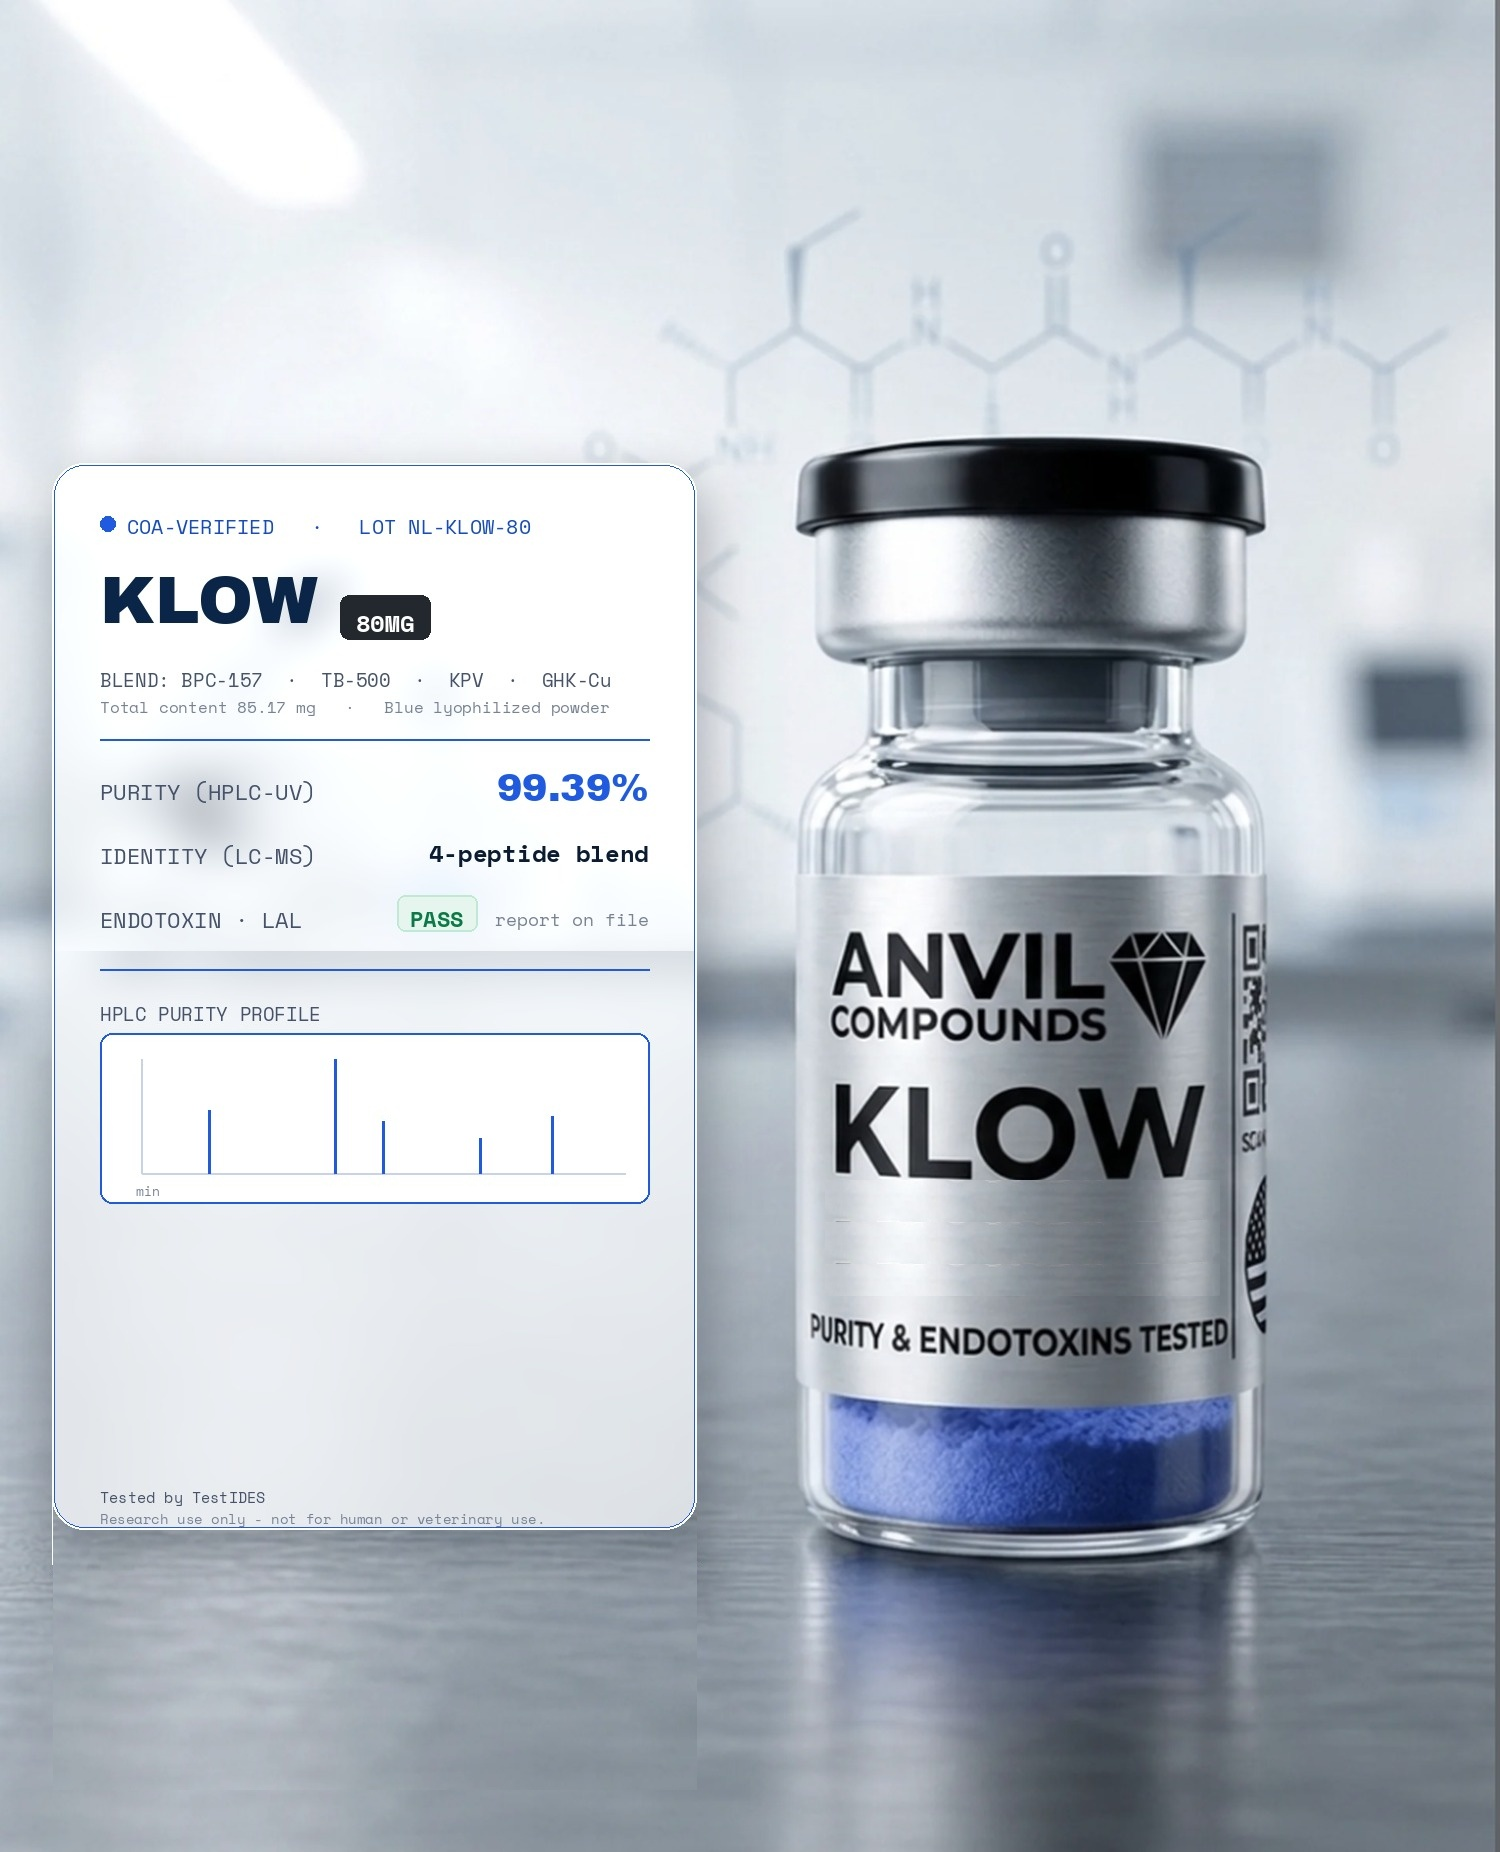
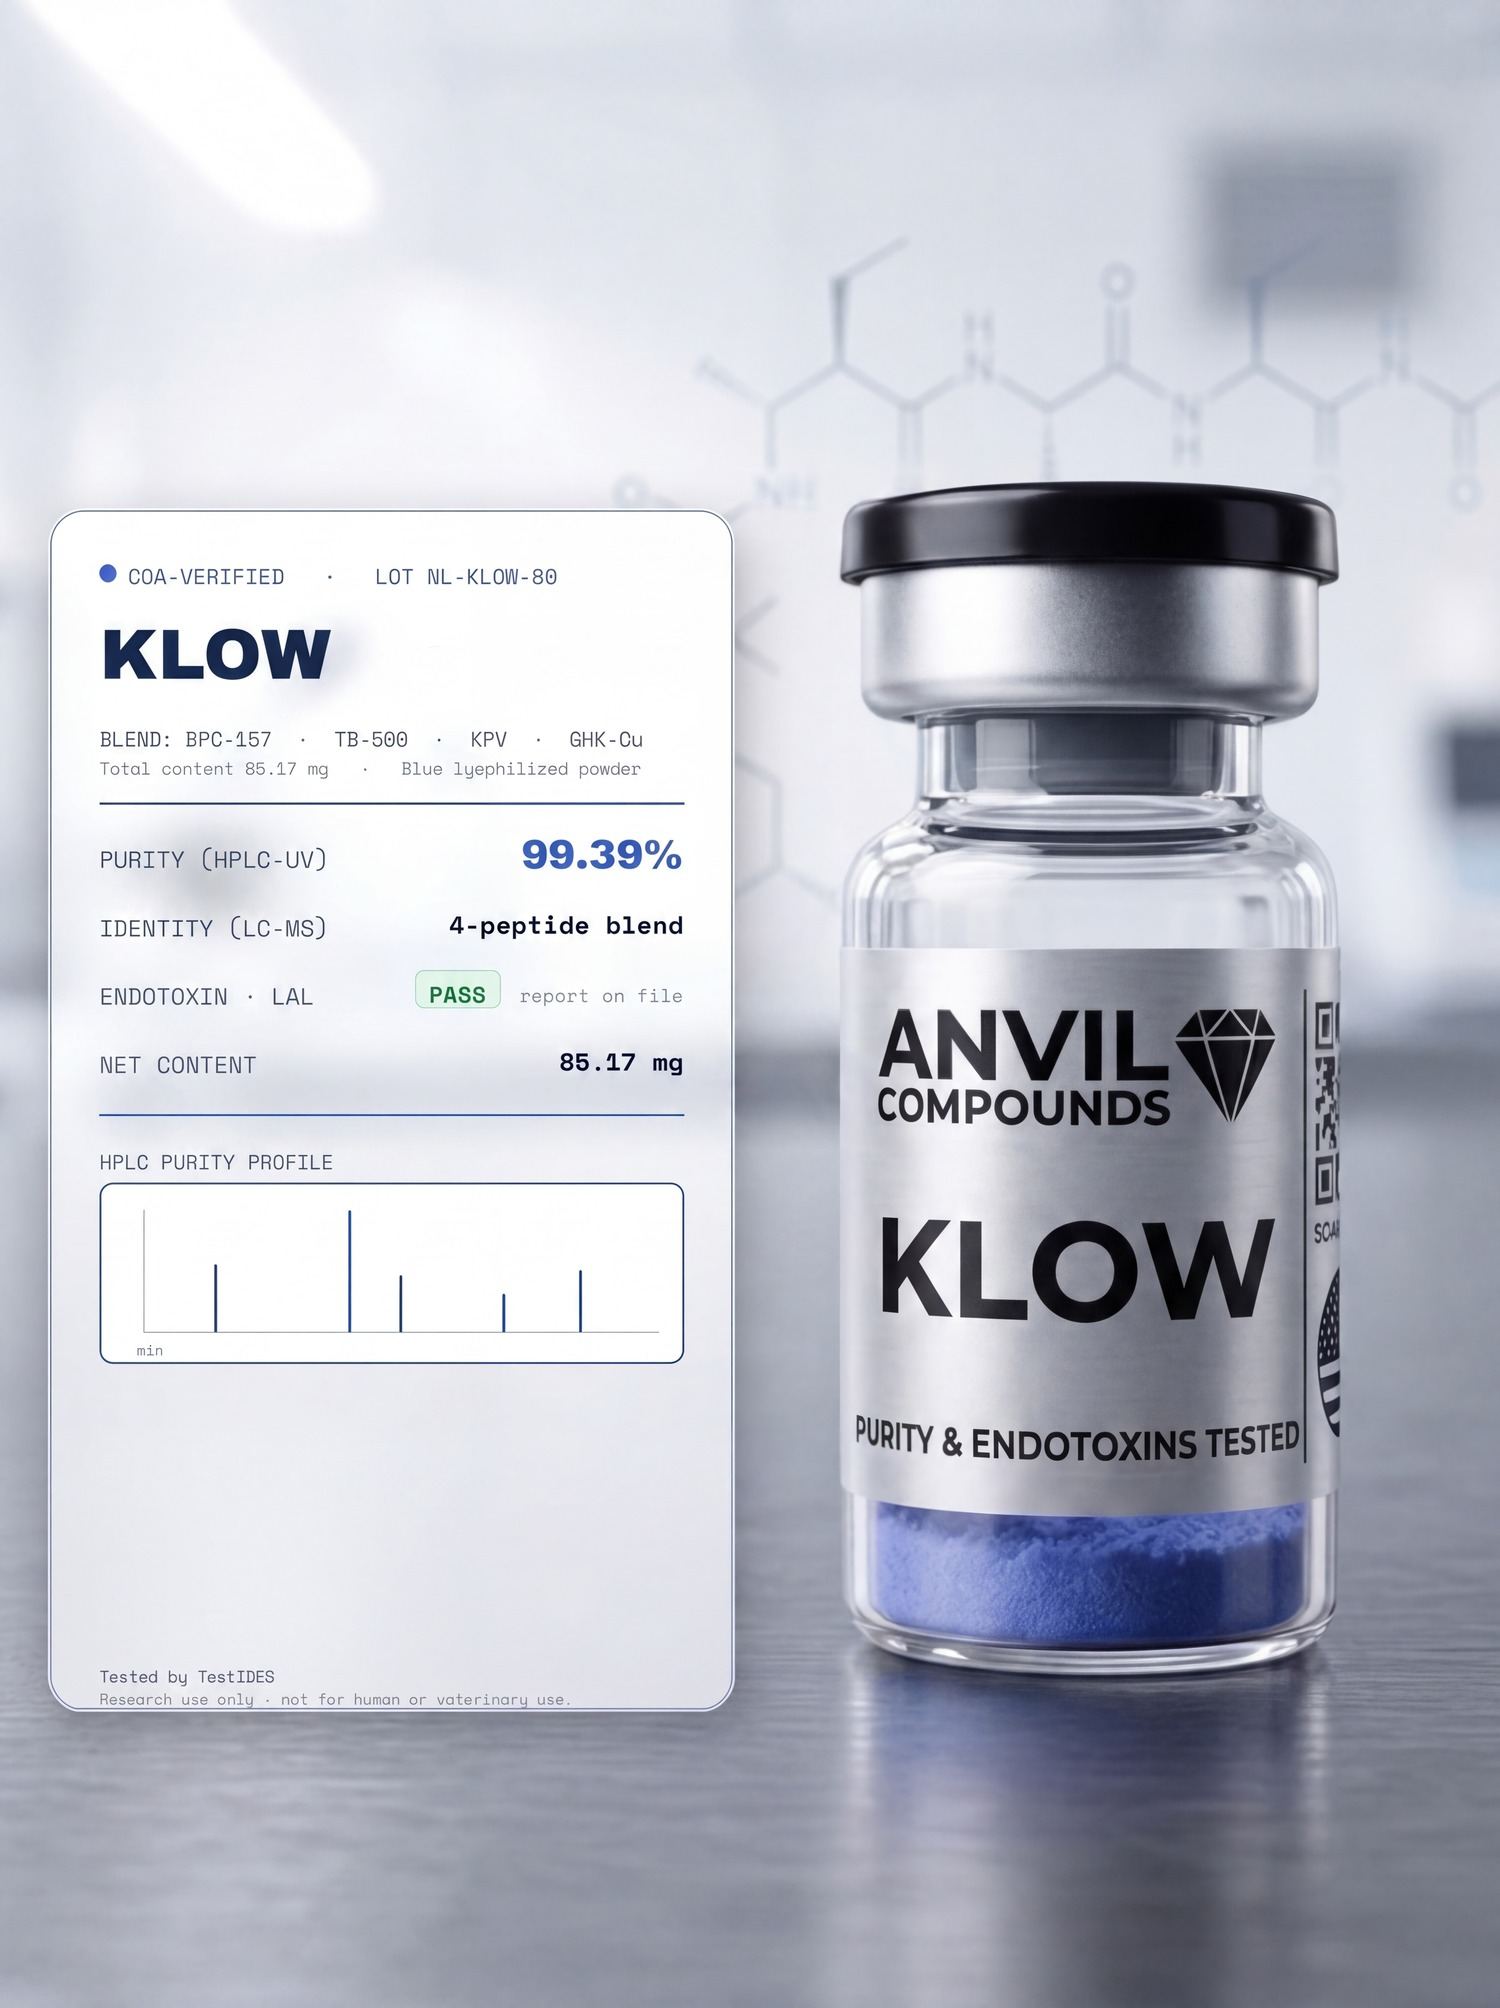
Simplify catalog cards, fix product-page image cropping site-wide, replace Wolverine/KLOW photos
- Catalog cards: remove description text and "View Information" button;
  whole card now navigates to the product page on click (COA/Add-to-Cart
  still work independently); tightened padding now that there's less content
- Catalog page headline simplified to "Product Catalog"
- Product-page image frame now sizes to each photo's own aspect ratio
  instead of stretching to match the buy column's height, so it can't
  crop differently as the window resizes -- applied to every product,
  not just glp-rt
- Removed the payment-methods icon row from product pages (still shown
  in the cart drawer, which is a separate shared component)
- Replaced Wolverine and KLOW product photos with updated versions

diff --git a/components/ProductsSection.tsx b/components/ProductsSection.tsx
@@ -181,7 +181,8 @@ export function ProductCard({ product, index }: { product: ProductCard; index: n
   const glpGated = isGlpCompound(product.name) && !isAuthenticated;
   const loginHref = `/account?redirect=${encodeURIComponent(`/products/${slugifyProductName(product.name)}`)}`;
 
-  const handleAddToCart = useCallback(() => {
+  const handleAddToCart = useCallback((e: React.MouseEvent) => {
+    e.stopPropagation();
     const priceNum = parseFloat(product.price.replace(/[^0-9.]/g, "")) || 0;
     addItem({
       slug: slugifyProductName(product.name),
@@ -195,6 +196,10 @@ export function ProductCard({ product, index }: { product: ProductCard; index: n
     setTimeout(() => setAdded(false), 2000);
   }, [product, addItem, openCart]);
 
+  const productHref = glpGated ? loginHref : `/products/${slugifyProductName(product.name)}`;
+
+  const goToProduct = () => router.push(productHref);
+
   return (
     <motion.div
       ref={ref}
@@ -203,7 +208,13 @@ export function ProductCard({ product, index }: { product: ProductCard; index: n
       transition={{ duration: 0.7, delay: index * 0.08, ease: [0.16, 1, 0.3, 1] }}
       className="group relative"
     >
-      <div className="bg-white border border-mock-line rounded-xl overflow-hidden h-full flex flex-col transition-all duration-500 hover:border-mock-cobalt/40 hover:shadow-xl hover:shadow-mock-cobalt/10 hover:-translate-y-1">
+      <div
+        onClick={goToProduct}
+        onKeyDown={(e) => { if (e.key === "Enter") goToProduct(); }}
+        role="link"
+        tabIndex={0}
+        className="bg-white border border-mock-line rounded-xl overflow-hidden h-full flex flex-col cursor-pointer transition-all duration-500 hover:border-mock-cobalt/40 hover:shadow-xl hover:shadow-mock-cobalt/10 hover:-translate-y-1"
+      >
 
         {/* Product image -- container aspect matches the source photos
             (1500x1858) so object-contain fills it edge-to-edge with no
@@ -252,8 +263,8 @@ export function ProductCard({ product, index }: { product: ProductCard; index: n
         </div>
 
         {/* Card content */}
-        <div className="p-3 md:p-5 flex flex-col flex-grow">
-          <div className="mb-2 md:mb-3">
+        <div className="p-3 md:p-4 flex flex-col flex-grow">
+          <div className="mb-2.5 md:mb-3">
             <h3 className="font-display font-700 text-base md:text-xl text-mock-navy mb-0.5 leading-tight">
               {getProductDisplayTitle(product.name, product.category)}
             </h3>
@@ -261,10 +272,6 @@ export function ProductCard({ product, index }: { product: ProductCard; index: n
               {product.category}
             </span>
           </div>
-
-          <p className="font-body text-xs md:text-sm text-mock-sub leading-relaxed mb-3 md:mb-4 flex-grow line-clamp-3 md:line-clamp-none">
-            {product.description}
-          </p>
 
           {/* Purity bar */}
           <div className="mb-3 md:mb-4">
@@ -290,22 +297,17 @@ export function ProductCard({ product, index }: { product: ProductCard; index: n
                 <span className="font-display font-800 text-lg md:text-2xl text-mock-navy">{product.price}</span>
               </div>
             </div>
-            <a
-              href={glpGated ? loginHref : `/products/${slugifyProductName(product.name)}`}
-              className="block w-full text-center mb-1.5 md:mb-2 px-2 md:px-3 py-1.5 md:py-2 bg-mock-surface2 hover:bg-mock-line/60 border border-mock-line hover:border-mock-cobalt/30 text-mock-sub hover:text-mock-navy text-xs md:text-sm font-display font-600 rounded-lg transition-all duration-300"
-            >
-              View Information
-            </a>
             <div className="flex gap-1.5 md:gap-2">
               <a
                 href={glpGated ? loginHref : "/coas"}
+                onClick={(e) => e.stopPropagation()}
                 className="flex-1 text-center px-2 md:px-3 py-1.5 md:py-2 bg-mock-surface2 hover:bg-mock-line/60 border border-mock-line hover:border-mock-cobalt/30 text-mock-sub hover:text-mock-navy text-xs md:text-sm font-display font-600 rounded-lg transition-all duration-300"
               >
                 View COA
               </a>
               {glpGated ? (
                 <button
-                  onClick={() => router.push(loginHref)}
+                  onClick={(e) => { e.stopPropagation(); router.push(loginHref); }}
                   className="flex-1 text-center px-2 md:px-3 py-1.5 md:py-2 border border-mock-cobalt/40 bg-mock-cobalt/10 hover:bg-mock-cobalt/20 text-mock-cobaltInk hover:text-mock-cobalt text-xs md:text-sm font-display font-600 rounded-lg transition-all duration-300"
                 >
                   Log In to Inquire
@@ -338,12 +340,12 @@ function SkeletonCard() {
   return (
     <div className="bg-white border border-mock-line rounded-xl overflow-hidden animate-pulse">
       <div className="w-full aspect-[1500/1858] bg-mock-surface2" />
-      <div className="p-3 md:p-5 space-y-2 md:space-y-3">
+      <div className="p-3 md:p-4 space-y-2 md:space-y-3">
         <div className="w-1/2 h-4 md:h-5 bg-mock-surface2 rounded" />
         <div className="w-1/3 h-2.5 md:h-3 bg-mock-surface2 rounded" />
-        <div className="space-y-1.5 md:space-y-2 pt-1.5 md:pt-2">
-          <div className="w-full h-2.5 md:h-3 bg-mock-surface2 rounded" />
-          <div className="w-4/5 h-2.5 md:h-3 bg-mock-surface2 rounded" />
+        <div className="pt-2.5 md:pt-3.5 space-y-2">
+          <div className="w-full h-1 bg-mock-surface2 rounded" />
+          <div className="w-2/3 h-6 bg-mock-surface2 rounded" />
         </div>
       </div>
     </div>
@@ -487,7 +489,7 @@ export default function ProductsSection() {
                 className="font-heading font-700 text-mock-navy"
                 style={{ fontSize: "clamp(2.4rem, 5vw, 4rem)" }}
               >
-                <span>Peptide &amp; Research Reagent Catalog</span>
+                <span>Product Catalog</span>
               </motion.h2>
             </div>
 

diff --git a/components/ProductImageGallery.tsx b/components/ProductImageGallery.tsx
@@ -14,21 +14,19 @@ interface ProductImageGalleryProps {
   productName: string;
   coaImage?: string | null;
   // "boxed" (default) = framed square card, used in the mobile flow.
-  // "bleed" = edge-to-edge, no border/radius, fills the column height —
+  // "bleed" = edge-to-edge, no border/radius, sized to the product photos'
+  // own aspect ratio (all product photos share ~1500x1850 dimensions) —
   // matches the FeaturedSpotlight band's visual language for the desktop
-  // PDP hero (see components/FeaturedSpotlight.tsx).
+  // PDP hero (see components/FeaturedSpotlight.tsx). Deliberately NOT
+  // stretched to fill the column's height: that used to make the frame's
+  // shape shift (and crop differently) every time the window was resized,
+  // since the buy-column's height changes with viewport width. Sizing from
+  // the photo's own aspect ratio instead means object-cover always has a
+  // box shaped exactly like the photo — full image, no crop, at any width.
   variant?: "boxed" | "bleed";
-  // Bleed variant normally stretches to fill the column's full height,
-  // however tall that ends up being, and relies on object-cover to crop
-  // edge-to-edge — fine as long as the crop doesn't clip anything. Some
-  // photos (e.g. glp-rt, where the vial sits close enough to center that a
-  // tall stretched frame crops into the info card) need their frame shaped
-  // to the photo's own aspect ratio instead, so object-cover has nothing to
-  // crop — still edge-to-edge, no letterboxing, just a differently-shaped box.
-  matchSourceAspect?: boolean;
 }
 
-export default function ProductImageGallery({ productImage, productName, coaImage, variant = "boxed", matchSourceAspect = false }: ProductImageGalleryProps) {
+export default function ProductImageGallery({ productImage, productName, coaImage, variant = "boxed" }: ProductImageGalleryProps) {
   const images: GalleryImage[] = [];
   if (productImage) images.push({ src: productImage, alt: productName, label: "Product" });
   if (coaImage) images.push({ src: coaImage, alt: `${productName} Certificate of Analysis`, label: "COA" });
@@ -53,13 +51,11 @@ export default function ProductImageGallery({ productImage, productName, coaImag
   const bleed = variant === "bleed";
 
   return (
-    <div className={bleed && !matchSourceAspect ? "relative h-full" : "relative w-full"}>
+    <div className="relative w-full">
       <div
         className={
-          matchSourceAspect
+          bleed
             ? "relative w-full aspect-[1500/1850] rounded-2xl overflow-hidden"
-            : bleed
-            ? "relative w-full h-full min-h-[420px] lg:min-h-[560px] rounded-2xl overflow-hidden"
             : "relative w-full aspect-square max-w-lg mx-auto lg:max-w-none rounded-2xl overflow-hidden bg-white border border-mock-line"
         }
       >
@@ -67,7 +63,7 @@ export default function ProductImageGallery({ productImage, productName, coaImag
           src={current.src}
           alt={current.alt}
           fill
-          className={bleed && !matchSourceAspect ? "object-cover object-left" : "object-cover"}
+          className="object-cover"
           sizes="(max-width: 1024px) 100vw, 50vw"
           priority
         />

diff --git a/components/PurchaseFooter.tsx b/components/PurchaseFooter.tsx
@@ -1,19 +1,12 @@
-import PaymentMethodsBar from "@/components/PaymentMethodsBar";
-
-// Payment methods + RUO line, broken out of AddToCartButton so the mobile
-// product-page layout can place it after the shipping card instead of
-// bundled right under the buy buttons (see ProductPageTemplate.tsx).
-// The payment-methods icon row is desktop-only -- on mobile product pages
-// it's dropped to keep the page shorter; the RUO line still shows on both.
+// RUO line, broken out of AddToCartButton so the mobile product-page layout
+// can place it after the shipping card instead of bundled right under the
+// buy buttons (see ProductPageTemplate.tsx). The payment-methods icon row
+// that used to live here was removed from product pages; it still shows in
+// the cart drawer (see components/CartDrawer.tsx).
 export default function PurchaseFooter() {
   return (
-    <div className="space-y-4">
-      <div className="hidden lg:block">
-        <PaymentMethodsBar />
-      </div>
-      <p className="text-center font-mono text-[10px] text-mock-sub tracking-wide">
-        RUO only · Not for human or veterinary use · 21+ required
-      </p>
-    </div>
+    <p className="text-center font-mono text-[10px] text-mock-sub tracking-wide">
+      RUO only · Not for human or veterinary use · 21+ required
+    </p>
   );
 }

diff --git a/components/ProductPageTemplate.tsx b/components/ProductPageTemplate.tsx
@@ -277,15 +277,12 @@ export default function ProductPageTemplate({
 
             {/* Left — product image + shipping banner + SDS preview */}
             <div className="flex flex-col gap-5">
-              <div className={product.slug === "glp-rt" ? "" : "flex-1 min-h-0"}>
-                <ProductImageGallery
-                  productImage={product.image}
-                  productName={product.name}
-                  coaImage={product.documentationImage}
-                  variant="bleed"
-                  matchSourceAspect={product.slug === "glp-rt"}
-                />
-              </div>
+              <ProductImageGallery
+                productImage={product.image}
+                productName={product.name}
+                coaImage={product.documentationImage}
+                variant="bleed"
+              />
               <ShippingBanner theme="light" />
               <SdsPreviewButton productName={product.name} fileUrl={product.sdsFile} />
             </div>
